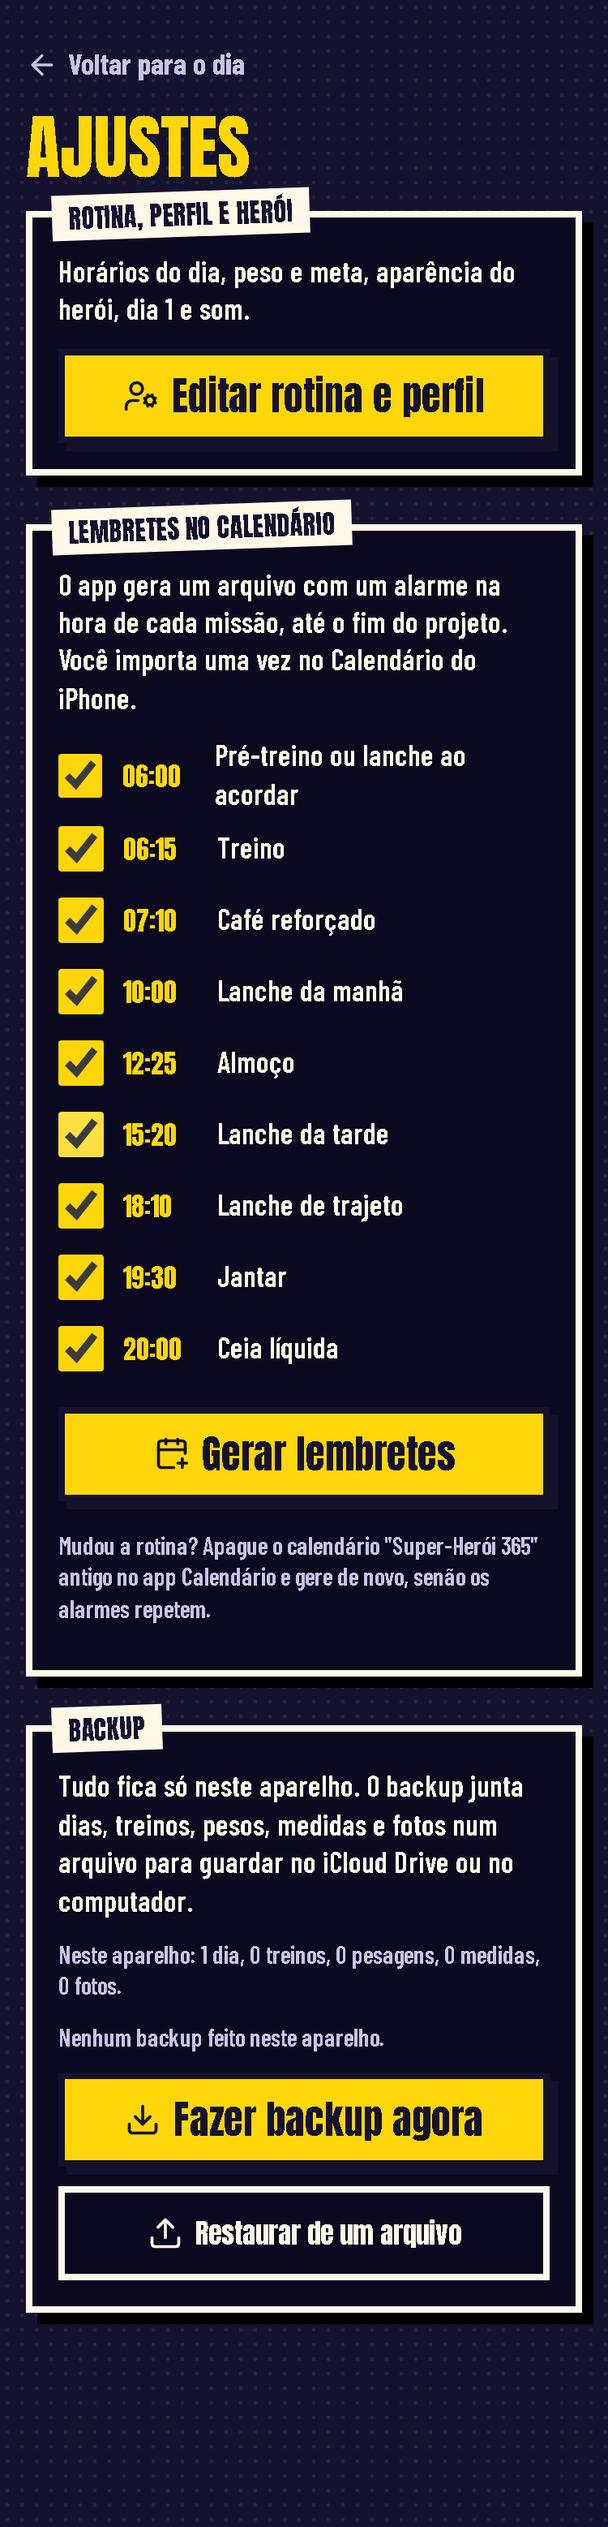
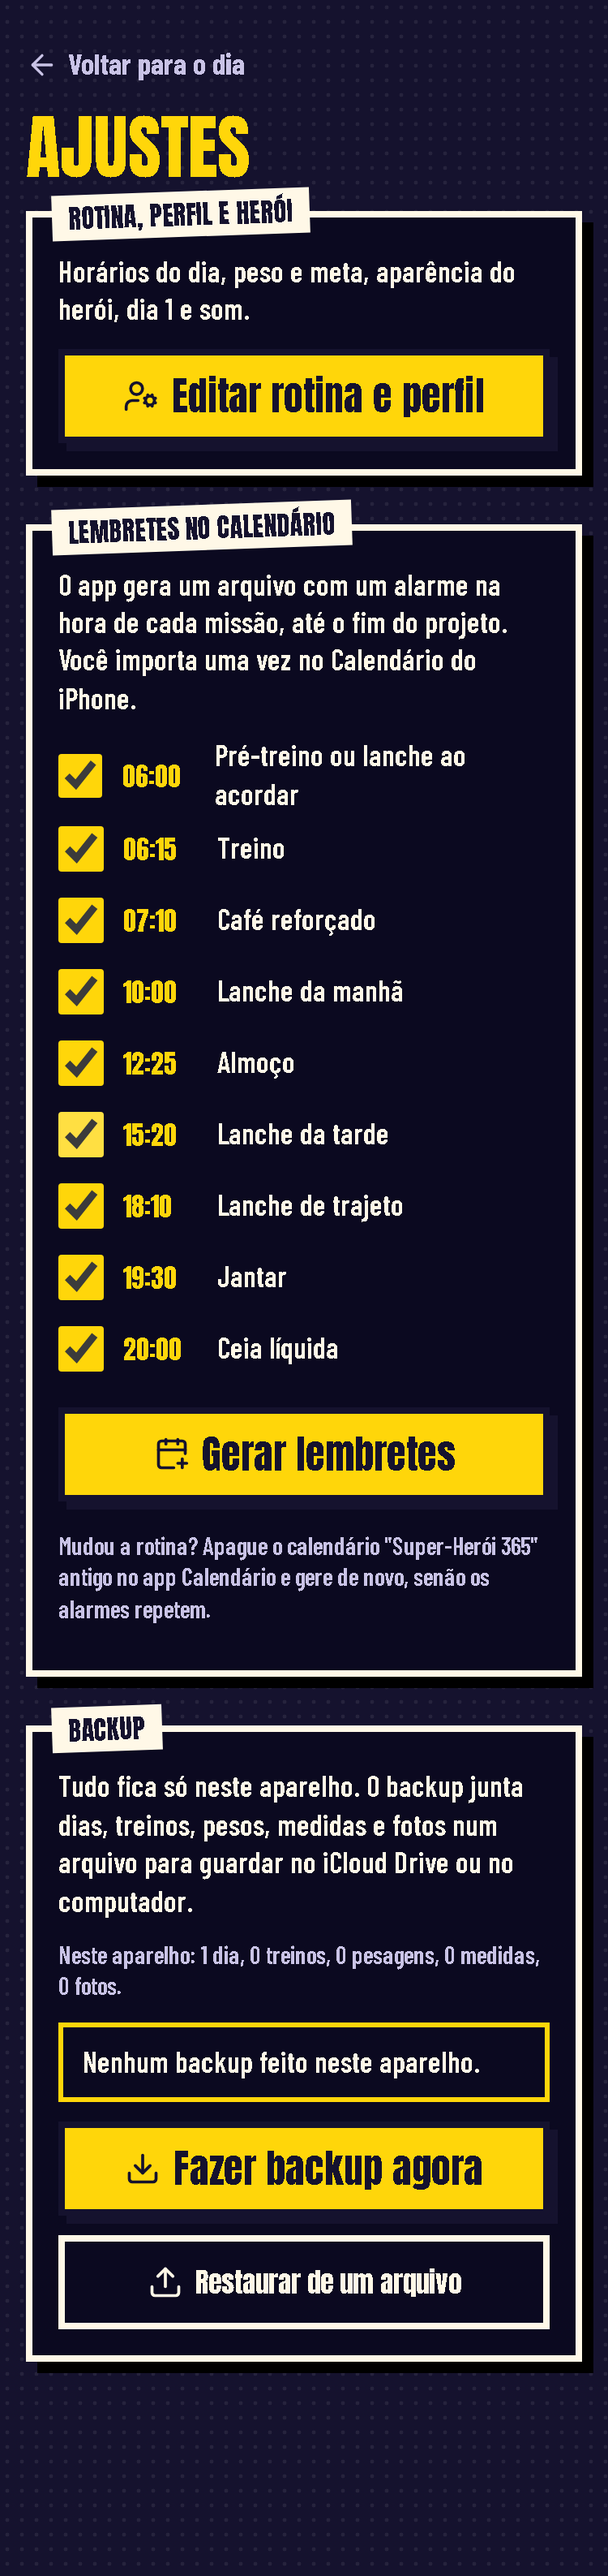
feat: ajustes de UX da etapa 6
- chefão logo abaixo da missão de agora, abrindo com os golpes de hoje
- backup: confirmação de que foi salvo, alerta quando não há backup recente,
  restauração compara o aparelho com o arquivo
- gibi antes das conquistas; conquistas que faltam recolhidas
- AGENTS.md com as convenções da etapa 6

Changed region(s): [[0.0307, 0.0311, 0.9813, 0.9345], [0.8893, 0.7787, 0.92, 0.8099]]

diff --git a/src/telas/Ajustes.tsx b/src/telas/Ajustes.tsx
@@ -4,7 +4,7 @@ import { ErroDeBackup, TAMANHO_MAXIMO, lerArquivoDeBackup, montarBackup, nomeDoA
 import type { Perfil } from '../dados/banco'
 import { gerarIcs, opcoesDeLembrete } from '../dominio/lembretes'
 import type { IdMissao } from '../dominio/rotina'
-import { dataCurta, dataLocal } from '../dominio/tempo'
+import { dataCurta, dataLocal, diasEntre } from '../dominio/tempo'
 import { entregarArquivo, lerTexto } from '../ui/arquivo'
 import { registrarBackup, ultimoBackup } from '../ui/registros'
 
@@ -73,11 +73,13 @@ function Lembretes({ perfil, hoje }: { perfil: Perfil; hoje: string }) {
 type Restauracao = { fase: 'nada' } | { fase: 'erro'; mensagem: string } | { fase: 'confirmar'; conteudo: ConteudoRestauravel } | { fase: 'restaurando' } | { fase: 'feito'; resumo: string }
 
 function Backup({ hoje }: { hoje: string }) {
+  // o diálogo de restaurar compara o aparelho com o arquivo
   const [aparelho, setAparelho] = useState<Resumo | null>(null)
   const [ultimo, setUltimo] = useState(ultimoBackup)
   const [exportando, setExportando] = useState(false)
   /** Arquivo pronto, esperando o segundo toque: o iPhone só abre a folha de compartilhar direto de um toque. */
   const [pronto, setPronto] = useState<{ nome: string; texto: string; data: string } | null>(null)
+  const [salvo, setSalvo] = useState(false)
   const [erroExportar, setErroExportar] = useState<string | null>(null)
   const [restauracao, setRestauracao] = useState<Restauracao>({ fase: 'nada' })
   const entrada = useRef<HTMLInputElement>(null)
@@ -93,6 +95,7 @@ function Backup({ hoje }: { hoje: string }) {
   const montar = async () => {
     setExportando(true)
     setErroExportar(null)
+    setSalvo(false)
     try {
       const agora = new Date()
       setPronto({ nome: nomeDoArquivo(agora), texto: JSON.stringify(await montarBackup(agora)), data: dataLocal(agora) })
@@ -110,6 +113,7 @@ function Backup({ hoje }: { hoje: string }) {
     registrarBackup(pronto.data)
     setUltimo(pronto.data)
     setPronto(null)
+    setSalvo(true)
   }
 
   const escolher = async (arquivo: File | undefined) => {
@@ -141,7 +145,8 @@ function Backup({ hoje }: { hoje: string }) {
       <span className="aba">BACKUP</span>
       <p>Tudo fica só neste aparelho. O backup junta dias, treinos, pesos, medidas e fotos num arquivo para guardar no iCloud Drive ou no computador.</p>
       {aparelho && <p className="nota" style={{ marginTop: 0 }}>Neste aparelho: {descrever(aparelho)}.</p>}
-      <p className="nota" style={{ marginTop: 0 }} role="status">{ultimo ? `Último backup: ${dataCurta(ultimo)}${ultimo === hoje ? ' (hoje)' : ''}.` : 'Nenhum backup feito neste aparelho.'}</p>
+      <p className={!ultimo || diasEntre(ultimo, hoje) > 7 ? 'aviso' : 'estado-backup'} role="status">{ultimo ? `Último backup: ${dataCurta(ultimo)}${ultimo === hoje ? ' (hoje)' : ''}.` : 'Nenhum backup feito neste aparelho.'}</p>
+      {salvo && <p className="aviso ok" role="status">Backup salvo. Confira em Arquivos se ele está lá antes de confiar nele.</p>}
       {pronto ? (
         <>
           <p className="aviso ok" role="status">Backup pronto ({(pronto.texto.length / 1024 / 1024).toFixed(1).replace('.', ',')} MB). Toque para guardar em Arquivos ou no iCloud Drive. Ele tem suas fotos: não mande por aplicativo de mensagem.</p>
@@ -159,9 +164,10 @@ function Backup({ hoje }: { hoje: string }) {
       {restauracao.fase === 'confirmar' && (
         <div className="confirmar" role="alertdialog" aria-labelledby="titulo-restaurar" aria-describedby="texto-restaurar">
           <h2 id="titulo-restaurar">Substituir tudo neste aparelho?</h2>
+          {aparelho && <p className="comparacao"><b>Neste aparelho:</b> {descrever(aparelho)}.</p>}
           <p id="texto-restaurar">
-            O arquivo tem {descrever({ dias: restauracao.conteudo.dias.length, treinos: restauracao.conteudo.sessoes.length, pesagens: restauracao.conteudo.pesagens.length, medidas: restauracao.conteudo.medidas.length, fotos: restauracao.conteudo.fotos.length })}.
-            Tudo o que está no aparelho agora será apagado e trocado por ele. Não dá para desfazer.
+            <b>No arquivo:</b> {descrever({ dias: restauracao.conteudo.dias.length, treinos: restauracao.conteudo.sessoes.length, pesagens: restauracao.conteudo.pesagens.length, medidas: restauracao.conteudo.medidas.length, fotos: restauracao.conteudo.fotos.length })}.
+            Tudo o que está no aparelho agora será apagado e trocado pelo arquivo. Não dá para desfazer. Na dúvida, cancele e faça um backup do aparelho antes.
             {restauracao.conteudo.descartados > 0 && ` ${plural(restauracao.conteudo.descartados, 'registro estava danificado e vai ficar', 'registros estavam danificados e vão ficar')} de fora.`}
           </p>
           <div className="acoes">

diff --git a/src/telas/Hoje.tsx b/src/telas/Hoje.tsx
@@ -46,6 +46,7 @@ export function Hoje({ dados, hoje, agora, erroAoSalvar, mudarDia, abrirAjustes,
   const registros = montarRegistros(dados, hoje)
   const chefe = chefaoAtual(registros)
   const desafio = desafioDaSemana(registros)
+  const golpesHoje = missoes.filter((m) => registro.feitas.includes(m.id)).length
   // lembrete de backup: a partir do 14º dia, se o último backup tiver mais de 14 dias (ou nunca houve)
   const backup = ultimoBackup()
   const lembrarBackup = numeroDoDia(diaUm, hoje) > 14 && (!backup || diasEntre(backup, hoje) > 14)
@@ -134,6 +135,24 @@ export function Hoje({ dados, hoje, agora, erroAoSalvar, mudarDia, abrirAjustes,
         </section>
       )}
 
+      <section className={`chefao ${chefe.derrotado ? 'derrotado' : ''}`} aria-label="Chefão da fase">
+        <div>
+          <small>Chefão da fase {chefe.fase}</small>
+          <h2>{chefe.vilao.nome.toUpperCase()}</h2>
+          <div className="vida" role="progressbar" aria-label={`Vida de ${chefe.vilao.nome}`} aria-valuemin={0} aria-valuemax={100} aria-valuenow={Math.floor(chefe.vida * 100)}>
+            <i style={{ width: `${chefe.vida * 100}%` }} />
+          </div>
+          <p>{chefe.derrotado ? 'Derrotado! O resto da fase é volta olímpica.' : golpesHoje > 0 ? `Hoje você acertou ${golpesHoje} ${golpesHoje === 1 ? 'golpe' : 'golpes'} nele.` : 'Cada missão cumprida é um golpe.'}</p>
+          {!chefe.derrotado && <small className="detalhe-chefao">Vida {chefe.vida === 1 ? 100 : Math.min(99, Math.floor(chefe.vida * 100))}%, faltam {chefe.meta - chefe.cumpridas} golpes.</small>}
+        </div>
+        <Vilao cor={chefe.vilao.cor} nome={chefe.vilao.nome} derrotado={chefe.derrotado} />
+      </section>
+
+      <section className={`desafio ${desafio.vencido ? 'vencido' : ''}`} aria-label="Vilão da semana">
+        <small>Vilão da semana: {desafio.vilao}</small>
+        <p><b>{desafio.feito}/{desafio.alvo}</b> {desafio.meta}{desafio.vencido ? '. Vencido!' : '.'}</p>
+      </section>
+
       <div className="barra-poder">
         <span>Comida</span>
         <div className="trilho"><i style={{ '--cor': 'var(--amarelo)', width: `${(resumo.refeicoesFeitas / resumo.refeicoesTotal) * 100}%` } as CSSProperties} /></div>
@@ -162,23 +181,6 @@ export function Hoje({ dados, hoje, agora, erroAoSalvar, mudarDia, abrirAjustes,
         <Coffee aria-hidden />
         {cafeina ? 'Guaraná e café liberados até 15:00.' : 'Cafeína encerrada por hoje: sem guaraná e sem café até amanhã.'}
       </div>
-
-      <section className={`chefao ${chefe.derrotado ? 'derrotado' : ''}`} aria-label="Chefão da fase">
-        <div>
-          <small>Chefão da fase {chefe.fase}</small>
-          <h2>{chefe.vilao.nome.toUpperCase()}</h2>
-          <div className="vida" role="progressbar" aria-label={`Vida de ${chefe.vilao.nome}`} aria-valuemin={0} aria-valuemax={100} aria-valuenow={Math.floor(chefe.vida * 100)}>
-            <i style={{ width: `${chefe.vida * 100}%` }} />
-          </div>
-          <p>{chefe.derrotado ? 'Derrotado! O resto da fase é volta olímpica.' : `Vida ${chefe.vida === 1 ? 100 : Math.min(99, Math.floor(chefe.vida * 100))}%. Faltam ${chefe.meta - chefe.cumpridas} missões para derrubar.`}</p>
-        </div>
-        <Vilao cor={chefe.vilao.cor} nome={chefe.vilao.nome} derrotado={chefe.derrotado} />
-      </section>
-
-      <section className={`desafio ${desafio.vencido ? 'vencido' : ''}`} aria-label="Vilão da semana">
-        <small>Vilão da semana: {desafio.vilao}</small>
-        <p><b>{desafio.feito}/{desafio.alvo}</b> {desafio.meta}{desafio.vencido ? '. Vencido!' : '.'}</p>
-      </section>
 
       {lembrarBackup && (
         <p className="aviso lembrete-backup" role="status">

diff --git a/src/telas/Evolucao.tsx b/src/telas/Evolucao.tsx
@@ -423,22 +423,10 @@ function Heroi({ dados, hoje }: { dados: Dados; hoje: string }) {
             <i style={{ width: `${(a.noNivel / a.doNivel) * 100}%` }} />
           </div>
           <p className="nota" style={{ margin: '6px 0 0' }}>
-            {a.pontos} {a.pontos === 1 ? SINGULAR[a.id] : a.fonte} no total. {a.semana > 0 ? `+${a.semana} nos últimos 7 dias.` : 'Nada nos últimos 7 dias.'}
+            {a.pontos} {a.pontos === 1 ? SINGULAR[a.id] : a.fonte} no total. {a.semana > 0 ? `+${a.semana} nos últimos 7 dias.` : ''}
           </p>
         </article>
       ))}
-
-      <h2 className="secao" style={{ marginTop: 30 }}>CONQUISTAS</h2>
-      <p className="nota" style={{ marginTop: 0 }}>{conquistasFeitas.length} de {listaDeConquistas.length} desbloqueadas.</p>
-      <ul className="conquistas">
-        {listaDeConquistas.map((c) => (
-          <li key={c.id} className={c.feita ? 'feita' : undefined}>
-            {c.feita ? <Trophy aria-hidden /> : <Lock aria-hidden />}
-            <span><b>{c.nome}</b><small>{c.descricao}</small></span>
-            <span className="so-leitor">{c.feita ? 'Desbloqueada' : 'Bloqueada'}</span>
-          </li>
-        ))}
-      </ul>
 
       <h2 className="secao" style={{ marginTop: 30 }}>SEU GIBI</h2>
       <p className="nota" style={{ marginTop: 0 }}>Cada dia vencido vira um quadro. Cada fase é um capítulo.</p>
@@ -467,6 +455,23 @@ function Heroi({ dados, hoje }: { dados: Dados; hoje: string }) {
           )}
         </details>
       ))}
+      <h2 className="secao" style={{ marginTop: 30 }}>CONQUISTAS</h2>
+      <p className="nota" style={{ marginTop: 0 }}>{conquistasFeitas.length} de {listaDeConquistas.length} desbloqueadas.</p>
+      {conquistasFeitas.length > 0 && (
+        <ul className="conquistas">
+          {conquistasFeitas.map((c) => (
+            <li key={c.id} className="feita"><Trophy aria-hidden /><span><b>{c.nome}</b><small>{c.descricao}</small></span></li>
+          ))}
+        </ul>
+      )}
+      <details className="mais-conquistas">
+        <summary>Ver as {listaDeConquistas.length - conquistasFeitas.length} que faltam<ChevronDown aria-hidden /></summary>
+        <ul className="conquistas">
+          {listaDeConquistas.filter((c) => !c.feita).map((c) => (
+            <li key={c.id}><Lock aria-hidden /><span><b>{c.nome}</b><small>{c.descricao}</small></span></li>
+          ))}
+        </ul>
+      </details>
     </>
   )
 }

diff --git a/e2e/jogo.spec.ts b/e2e/jogo.spec.ts
@@ -15,7 +15,9 @@ test('chefão e vilão da semana na tela Hoje reagem às missões', async ({ pag
   const chefao = page.getByLabel('Chefão da fase')
   await expect(chefao).toContainText('A PREGUIÇA')
   await expect(chefao).toContainText('Vida 100%')
+  await expect(chefao).toContainText('Cada missão cumprida é um golpe.')
   await page.getByRole('button', { name: /Café reforçado/ }).tap()
+  await expect(chefao).toContainText('Hoje você acertou 1 golpe nele.')
   await expect(chefao).toContainText('Vida 99%')
   const desafio = page.getByLabel('Vilão da semana')
   await expect(desafio).toContainText('O Desidratado')
@@ -57,6 +59,7 @@ test('backup: exporta, recusa arquivo errado, pede confirmação e restaura subs
   expect(conteudo.app).toBe('super-heroi-365')
   expect(conteudo.dias[0].feitas).toContain('cafe')
   await expect(page.getByText('Último backup: 09/11 (hoje).')).toBeVisible()
+  await expect(page.getByText(/Backup salvo\. Confira em Arquivos/)).toBeVisible()
 
   // depois do backup, marca outra missão: ela deve sumir ao restaurar
   await page.getByRole('button', { name: 'Voltar para o dia' }).tap()
@@ -68,7 +71,8 @@ test('backup: exporta, recusa arquivo errado, pede confirmação e restaura subs
 
   await page.locator('#arquivo-backup').setInputFiles(caminho)
   const confirmar = page.getByRole('alertdialog', { name: 'Substituir tudo neste aparelho?' })
-  await expect(confirmar).toContainText('1 dia, 0 treinos, 0 pesagens, 0 medidas, 0 fotos')
+  await expect(confirmar).toContainText('No arquivo: 1 dia, 0 treinos, 0 pesagens, 0 medidas, 0 fotos')
+  await expect(confirmar).toContainText('Neste aparelho: 1 dia')
   await confirmar.getByRole('button', { name: 'Cancelar' }).tap()
   await expect(confirmar).toHaveCount(0)
 

diff --git a/src/estilos/jogo.css b/src/estilos/jogo.css
@@ -293,3 +293,53 @@
 .aviso.ok {
   border-color: #2ec27e;
 }
+
+.detalhe-chefao {
+  display: block;
+  margin-top: 2px;
+  font-style: normal !important;
+  font-weight: 600 !important;
+  color: var(--apagado) !important;
+}
+
+.estado-backup {
+  margin: 0 0 12px;
+  font-weight: 700;
+}
+
+.ajuste .aviso {
+  margin: 0 0 12px;
+}
+
+.comparacao {
+  margin-bottom: 6px;
+}
+
+.mais-conquistas {
+  margin-bottom: 10px;
+}
+
+.mais-conquistas summary {
+  display: flex;
+  align-items: center;
+  justify-content: space-between;
+  min-height: 48px;
+  padding: 0 10px;
+  font-weight: 700;
+  cursor: pointer;
+  list-style: none;
+  border: 2px solid #ffffff40;
+}
+
+.mais-conquistas summary::-webkit-details-marker {
+  display: none;
+}
+
+.mais-conquistas summary svg {
+  width: 20px;
+  height: 20px;
+}
+
+.mais-conquistas[open] summary {
+  margin-bottom: 8px;
+}

diff --git a/AGENTS.md b/AGENTS.md
@@ -28,6 +28,8 @@ Testes: Vitest (jsdom, fake-indexeddb) e Playwright (375 px). Lint: oxlint.
 - Dado lido do banco passa por função de normalização antes de usar.
 - Nenhum dado pessoal no repositório (ele é público): perfil fica só no aparelho. Scripts de captura e testes usam valores fictícios (60,5 kg, meta 70 kg, 175 cm, 30 anos), nunca os do Leonardo.
 - Evolução: regras em `src/dominio/evolucao.ts`. Fotos ficam no IndexedDB como Blob reduzido (`src/ui/comprimirImagem.ts`); a tela lê as imagens sob demanda, o resto do app só lê os meses (`lerMesesComFoto`).
+- Jogo: chefões, vilão da semana, conquistas e gibi em `src/dominio/campanha.ts`, sempre derivados (`montarRegistros` em `src/ui/registros.ts`).
+- Backup (`src/dados/backup.ts`): o arquivo de restauração é entrada não confiável; tudo passa pelas normalizações, foto tem limite de tamanho e assinatura conferida, e a gravação é uma transação só. Mudou o formato? Suba `VERSAO_DO_BACKUP` e mantenha a leitura das versões antigas.
 - Testes com relógio falso: depois de `clock.fastForward` e `reload`, chame `clock.runFor(1000)`, senão o app fica em "Abrindo seu gibi..." (o relógio falso para).
 - Conteúdo alimentar: proibido verdura, legume em pedaço, salada, peixe, fruto do mar e feijão. Há teste que barra.
 - Nova coleção no banco: nova `version()` em `src/dados/banco.ts`; nunca editar versão publicada.
@@ -40,5 +42,5 @@ Testes: Vitest (jsdom, fake-indexeddb) e Playwright (375 px). Lint: oxlint.
 - O servidor de desenvolvimento já serviu arquivo antigo depois de edição por script. Se a tela não bater com o código, reinicie o `npm run dev` antes de investigar. Os roteiros `e2e` rodam contra o build e não sofrem disso.
 
 ## Etapas
-1. Fundação, 2. Primeira abertura e tela Hoje, 3. Cardápio dos 365 dias, receitas e compras, 4. Treino, 5. Evolução: feitas.
-6. Jogo completo, lembretes e backup.
+1. Fundação, 2. Primeira abertura e tela Hoje, 3. Cardápio dos 365 dias, receitas e compras, 4. Treino, 5. Evolução,
+6. Jogo completo, lembretes e backup: feitas. A versão 1 da spec está completa.
